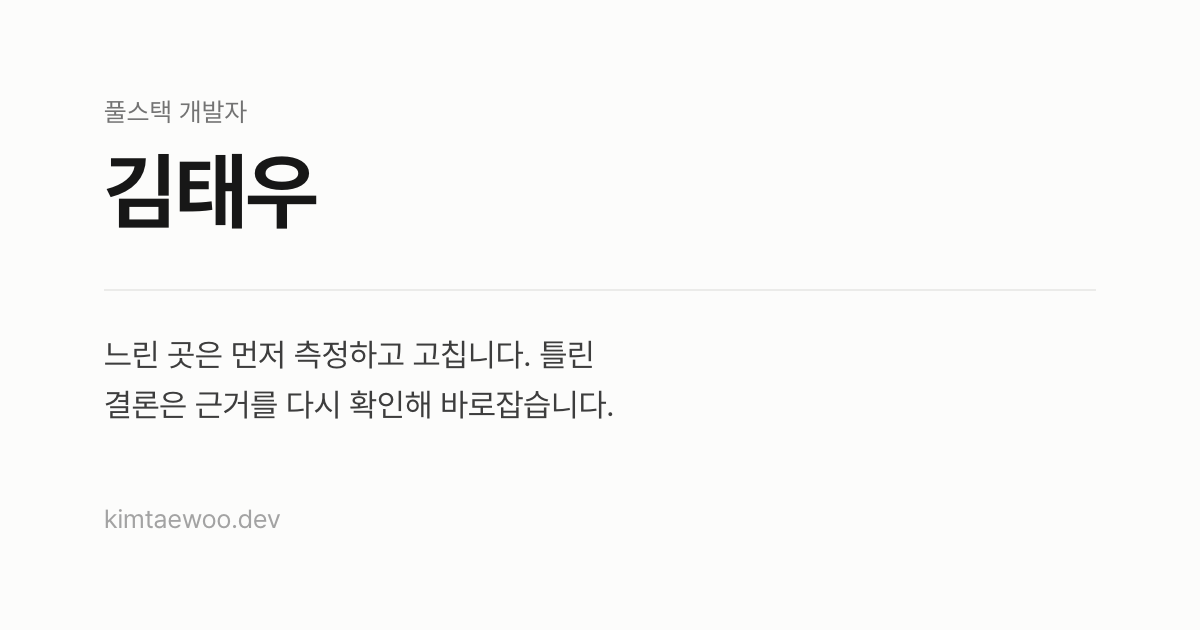
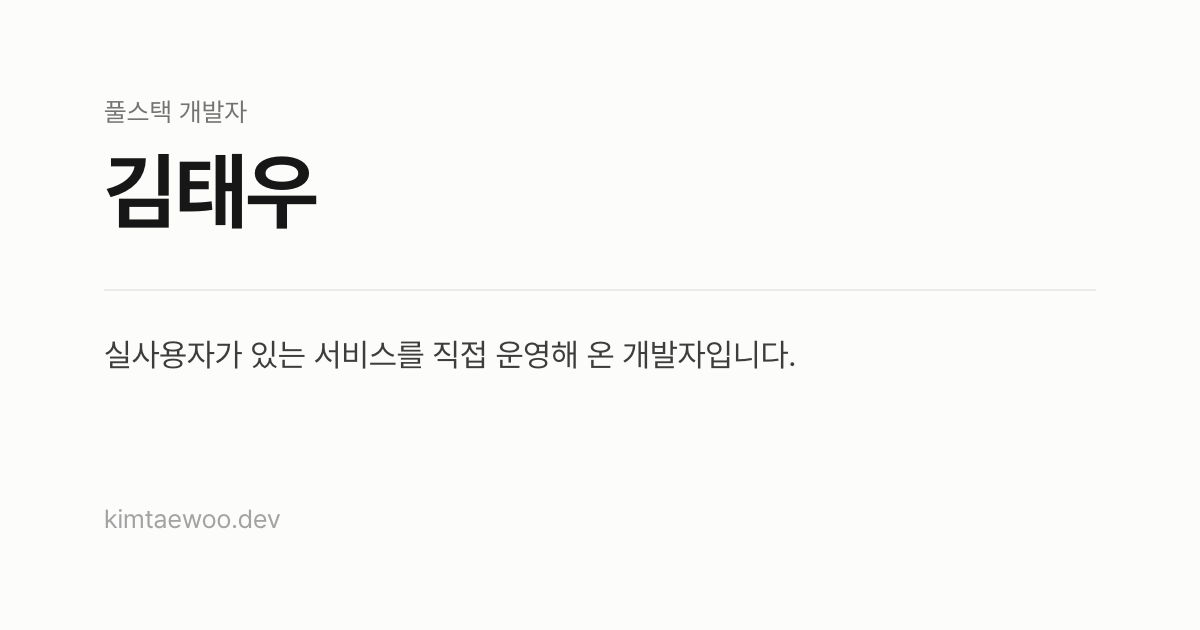
링크 미리보기 설명과 og 이미지도 새 소개 문장으로

Changed region(s): [[0.0925, 0.5429, 0.6783, 0.6635]]

diff --git a/scripts/og/card.html b/scripts/og/card.html
@@ -20,8 +20,8 @@
 </div>
 <script>
   const T = {
-    ko: { label: "풀스택 개발자", name: "김태우", line: "느린 곳은 먼저 측정하고 고칩니다. 틀린 결론은 근거를 다시 확인해 바로잡습니다.", url: "kimtaewoo.dev" },
-    en: { label: "Full-stack Engineer", name: "Kim Taewoo", line: "I measure slow spots before fixing them, and I recheck the evidence to correct wrong conclusions.", url: "kimtaewoo.dev/en" },
+    ko: { label: "풀스택 개발자", name: "김태우", line: "실사용자가 있는 서비스를 직접 운영해 온 개발자입니다.", url: "kimtaewoo.dev" },
+    en: { label: "Full-stack Engineer", name: "Kim Taewoo", line: "I build and run services that real users rely on.", url: "kimtaewoo.dev/en" },
   }[new URLSearchParams(location.search).get("lang") || "ko"];
   for (const k in T) document.getElementById(k).textContent = T[k];
 </script></body></html>

diff --git a/PROGRESS.md b/PROGRESS.md
@@ -66,3 +66,4 @@
 34. 11/13 태우님 결정(Main 전달): 33의 대표 문구는 11/12에 고른 C안을 덮어썼고 "원인을 좁혔다"도 AI 말투라서, 1번 안 "느린 곳은 먼저 측정하고 고칩니다. 틀린 결론은 근거를 다시 확인해 바로잡습니다."(en "I measure slow spots before fixing them, and I recheck the evidence to correct wrong conclusions.")로 바꿨다. 같은 곳(hero.tagline, ui.description, index.html meta와 og, prerender en og, og 카드, 이력서 B와 D 머리말)에 넣었다. 새 규칙: 좁히다, 좁혀, 좁혔다를 쓰지 않고 찾아낸 원인을 바로 쓴다. 그래서 CI 원인 문장(TRUNCATE와 러너 디스크), Vling 성능 카드 요약과 해결(스켈레톤 key)을 원인을 바로 쓰는 문장으로 바꿨고 영문도 맞췄다. "기간을 좁혀도"(검색 기간을 실제로 줄인 뜻)는 둔다. 같은 기준으로 "잰", "쟀습니다", "재 보니"는 "측정"으로 바꿨다. "재지 않았습니다" 같은 한계 문장은 그대로다. 이력서 B와 D의 JDK 불릿 "근거가 없어 거뒀습니다"는 "비교였음을 확인하고 바로잡았습니다"로 바꿨다.
 35. 11/13 태우님 승인("다 ㄱㄱ", Main 전달): 34에서 그대로 두었던 "재지 않았습니다", "재지 않음", "재 두지", "재 봐도", "재 봤지만", "재지는" 11곳(`src/data.ts`)을 "측정하지 않았습니다", "측정하지 않음", "측정해 두지", "측정해 봐도", "측정했지만"으로 바꿨다(890e5a9). 영문은 이미 "not measured"라 그대로다. 이력서 원본(B, A, C, D)과 resume.pdf에는 해당 표현이 없어(남은 것은 실제 기간을 줄인 뜻의 "기간을 좁혀도"뿐) PDF는 다시 만들지 않았다. 점검 정규식은 `LC_ALL=en_US.UTF-8`에서 돌린다(기본 로캘에서는 `[봐봤두]`가 바이트 단위로 맞아 "현재 모드"가 걸렸다).
 36. 11/17 숫자 정정(디노티시아 면접 준비 중 원자료 재확인, 태우님 "다 고쳐", Main 전달, 근거 `~/Desktop/md/dnotitia-2027/서류기반_질문표_20261117.md` 1절). History 카드: 벤치의 "r10"은 정답 후보 중 하나라도 상위 10건에 들면 맞음으로 세는 hit@10과 같은 값이라(결과 JSON 모두 r10 = hit10/n) "재현율"을 쓰지 않고 "상위 10건 안에 정답이 든 질문 35개 중 25개 → 29개"로 쓴다. 35개 중 말 바꾼 질문 10개는 채널 설계 때 순위를 봐서 "조정에 쓰지 않은"을 빼고 한계에 밝혔다. 10월 수치(0.74 → 0.84 등)는 숫자는 두고 이름만 "상위 10건 안 정답 비율"로 바꿨다. 색인 건수는 "11/17 기준 전문 검색 약 54만 건, 그중 약 9만 건은 임베딩"(542,167건, 임베딩 88,151건), 결정 기록 약 1,400건은 11/11 기준이라 날짜를 따로 붙였다. "30일"은 "기본 설정에서"(en "By default")를 붙였다. Hufscheer CI 카드의 "10\~30초"는 PR #599 예상치라 숫자를 뺐다. resume.pdf는 같은 날 고친 공용 B(머리말 "실사용자가 있는 서비스를 직접 운영해 온 개발자입니다.")로 바꿨다. 사이트 대표 문구 "느린 곳은 먼저 측정하고 고칩니다"는 그대로 둔다.
+35. 11/17 태우님 결정(Main, "바꿔"): 첫 화면 소개를 이력서 머리말과 같은 "실사용자가 있는 서비스를 직접 운영해 온 개발자입니다."(en "I build and run services that real users rely on.")로 바꿨다. 둘째 줄은 "버즈앤비에서 Vling의 프론트엔드를, 대학 스포츠 응원 서비스 Hufscheer에서 실시간 응원 서버와 배포를 맡고 있습니다." hero.tagline, ui.description, index.html meta와 og, prerender en og, og 카드(og.png, og-en.png)를 함께 바꿨다. 이유: 원칙 선언형 문장이 어색하다는 태우님 피드백, 다른 개발자 이력서 소개는 "[무엇을 해 온] 개발자입니다" 한 문장이 대부분이었다.
